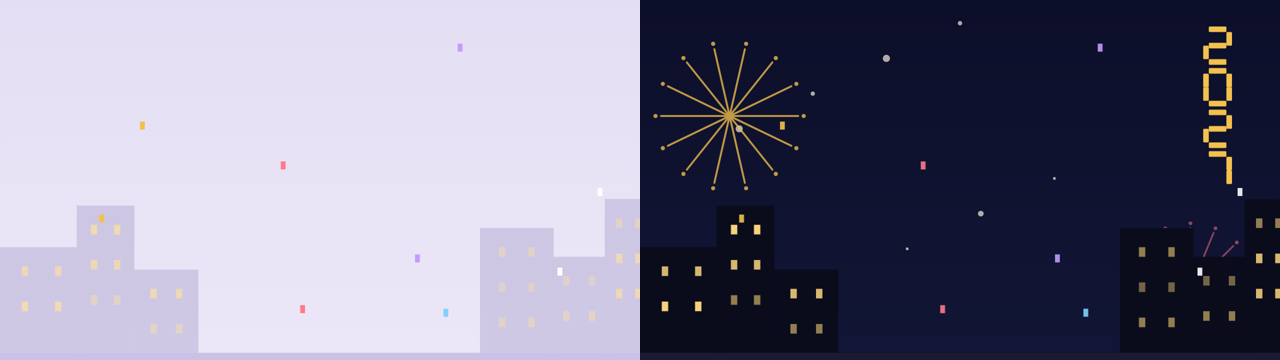
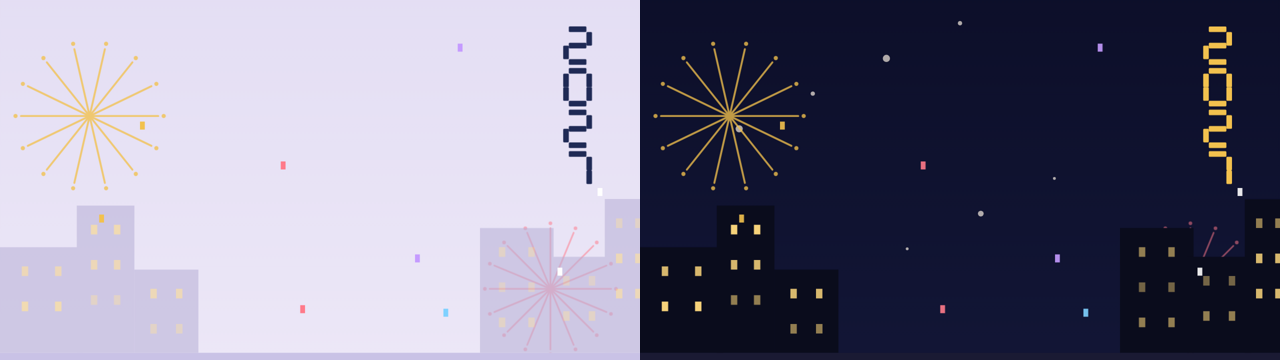
new-year-theme 0.1.7: the year and the fireworks at midnight also in light mode, with navy digits
Claude-Session: https://claude.ai/code/session_019US2gsjfkmf3Eo2ufavub8

diff --git a/plugins/new-year-theme/hooks/register.tsx b/plugins/new-year-theme/hooks/register.tsx
@@ -74,7 +74,7 @@ const digit = (x: number, y: number, w: number, h: number, t: number, value: str
     .map(seg => {
       const [rx, ry, rw, rh] = parts[seg] ?? [0, 0, 0, 0]
 
-      return `<rect x="${rx}" y="${ry}" width="${rw}" height="${rh}" rx="0.6" fill="#f2c14e"/>`
+      return `<rect class="yr" x="${rx}" y="${ry}" width="${rw}" height="${rh}" rx="0.6"/>`
     })
     .join('')
 }
@@ -165,6 +165,7 @@ const buildScene = (label: string | undefined, fireworks: boolean): string => [
   '</defs>',
   '<style>',
   '.night{display:none}',
+  '.yr{fill:#1f2a55}',
   '.f{animation-name:fall;animation-timing-function:linear;animation-iteration-count:infinite}',
   '@keyframes fall{from{transform:translate(0,0)}to{transform:translate(var(--d),830px)}}',
   '.bu{opacity:0;animation:pop 7s ease-in-out infinite}',
@@ -172,7 +173,7 @@ const buildScene = (label: string | undefined, fireworks: boolean): string => [
   '.wn{animation:glow 6s ease-in-out infinite}',
   '@keyframes glow{0%,100%{opacity:.45}50%{opacity:1}}',
   // At night the sky and the windows are as above; by day the skyline is a soft blue-grey and the windows are off.
-  '@media (prefers-color-scheme:dark){.day{display:none}.night{display:inline}.f{opacity:.9}}',
+  '@media (prefers-color-scheme:dark){.day{display:none}.night{display:inline}.f{opacity:.9}.yr{fill:#f2c14e}}',
   // Asked to reduce motion, the fireworks stay as bright bursts, the confetti rests at set heights and the windows stay lit.
   '@media (prefers-reduced-motion:reduce){.f{animation:none;transform:translate(0,var(--y))}.bu{animation:none;opacity:.85}.wn{animation:none;opacity:.8}}',
   '</style>',
@@ -188,7 +189,7 @@ const buildScene = (label: string | undefined, fireworks: boolean): string => [
     }).join('') +
     '</g>',
   fireworks ? FIREWORKS : '',
-  label === undefined ? '' : `<g class="night">${labelDigits(label)}</g>`,
+  label === undefined ? '' : `<g>${labelDigits(label)}</g>`,
   `<g class="day" opacity=".55">${SKYLINE.replace(/fill="#0a0c1c"/g, 'fill="#b7b0d6"')}</g>`,
   `<g class="night">${SKYLINE}</g>`,
   `<rect x="0" y="${G}" width="400" height="95" fill="#1a1a33" class="night"/>`,
